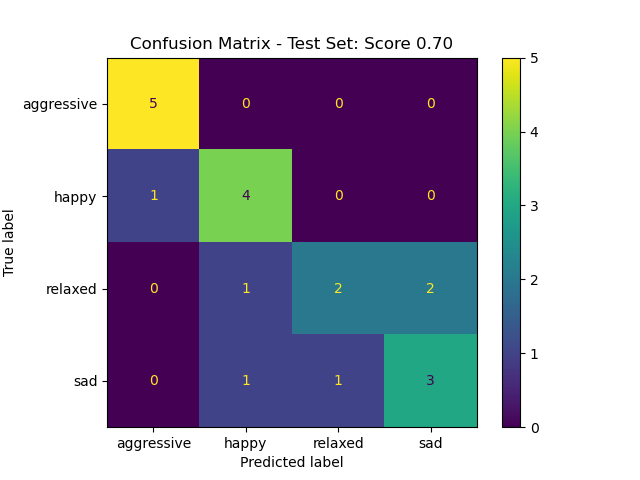
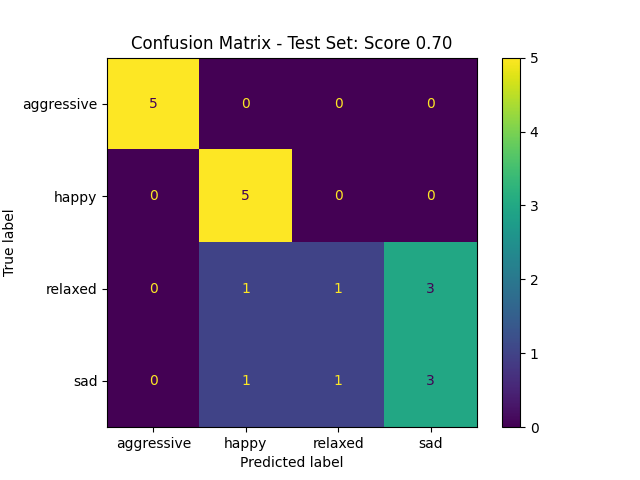
added misclassification results

diff --git a/src/models_gym.py b/src/models_gym.py
@@ -1,15 +1,14 @@
+import json
+import pandas as pd
+import matplotlib.pyplot as plt 
 from sklearn.ensemble import RandomForestClassifier
 from sklearn.neighbors import KNeighborsClassifier
-from sklearn.model_selection import RandomizedSearchCV
 from sklearn.metrics import classification_report, ConfusionMatrixDisplay
-import matplotlib.pyplot as plt
 from sklearn.model_selection import RandomizedSearchCV
-import json
 from evaluation import get_target_names
 
-EVALUATIONS_PATH = "../results"
-PLOTS_PATH = "../plots"
-
+EVALUATIONS_PATH = "results"
+PLOTS_PATH = "plots"
 
 class Classifier:
     def __init__(self):
@@ -19,28 +18,79 @@ class Classifier:
     def train_and_optimize(self, X, y, cv=15, scoring="accuracy", verbose=1, n_iter=20):
         if self.clf is None or self.param_grid is None:
             raise ValueError("Classifier or parameter grid is not set.")
-        
+
         print(f"***** {self.clf.__class__.__name__} *****")
         hyper_search_model = RandomizedSearchCV(
-            param_distributions=self.param_grid, estimator=self.clf, cv=cv, n_iter=n_iter, verbose=verbose, scoring=scoring, random_state=42
+            param_distributions=self.param_grid,
+            estimator=self.clf,
+            cv=cv,
+            n_iter=n_iter,
+            verbose=verbose,
+            scoring=scoring,
+            random_state=42,
         ).fit(X, y)
 
         print("Best hyperparameters are: " + str(hyper_search_model.best_params_))
         print("Best hyperparam score is: " + str(hyper_search_model.best_score_))
         self.clf = hyper_search_model.best_estimator_
 
-    def evaluate_best_model(self, X_test, y_test):
+    def evaluate_best_model(self, X_test, y_test, csv_file):
         score = self.clf.score(X_test, y_test)
         print("Score on test set: ", score)
-        print("Report on test set: ", classification_report(y_test, self.clf.predict(X_test), output_dict=True))
-        ConfusionMatrixDisplay.from_estimator(self.clf, X_test, y_test)
+        y_pred = self.clf.predict(X_test)
+        print("Report on test set: ", classification_report(y_test, y_pred, output_dict=True))
+
         # Add Target Names to the plot
         target_names = get_target_names()
+
+        self._check_misclassified(y_pred, y_test, csv_file, target_names)
+
+        ConfusionMatrixDisplay.from_estimator(self.clf, X_test, y_test)
         plt.title(f"Confusion Matrix - Test Set: Score {score:.2f}")
         plt.xticks(ticks=[0, 1, 2, 3], labels=target_names)
         plt.yticks(ticks=[0, 1, 2, 3], labels=target_names)
-        plt.savefig(f"{PLOTS_PATH}/confusion_matrix.png")
+        plt.savefig(f"{PLOTS_PATH}/confusion_matrix_{self.clf.__class__.__name__}.png")
         plt.show()
+
+    def _check_misclassified(self, y_pred, y_test, csv_file, target_names):
+        """
+        Checks the misclassified samples and stores them in a JSON file.
+
+        Parameters:
+            y_pred (array-like): The predicted labels.
+            y_test (array-like): The true labels.
+            csv_file (str): The path to the CSV test set file.
+            target_names (list): The names of the target classes.
+
+        """
+
+        # Compute indices of misclassified samples
+        misclassified_indices = [i for i, (true, pred) in enumerate(zip(y_test, y_pred)) if true != pred]
+
+        # Load CSV file
+        df = pd.read_csv(csv_file)
+
+        # Store misclassified samples in a list
+        misclassified_samples = []
+
+        # Collect misclassified samples
+        for idx in misclassified_indices:
+            file_name = df.iloc[idx]["File_Name"]
+            original_label = df.iloc[idx]["class"]
+            misclassified_label = y_pred[idx]
+            misclassified_samples.append(
+                {
+                    "file_name": file_name,
+                    "original_label": original_label,
+                    "misclassified_label": target_names[int(misclassified_label)],
+                }
+            )
+
+        # Write misclassified samples to JSON file
+        with open(
+            EVALUATIONS_PATH + f"/results_misclassification_{self.clf.__class__.__name__}.json", "w"
+        ) as f:
+            json.dump(misclassified_samples, f, indent=4)
 
 
 class RFClf(Classifier):
@@ -49,7 +99,7 @@ class RFClf(Classifier):
         self.clf = RandomForestClassifier()
         self.param_grid = {
             "bootstrap": [True, False],
-            "max_depth": [3, 5,None],
+            "max_depth": [3, 5, None],
             "n_estimators": [25, 50, 75],
             "max_features": ["sqrt", "log2", None],
             "criterion": ["gini", "entropy"],
@@ -64,5 +114,5 @@ class KNNClf(Classifier):
         self.param_grid = {
             "n_neighbors": [3, 5, 7],
             "leaf_size": [2, 3, 4, 5, 10],
-            "p": [1, 2]  # 1 for Manhattan distance, 2 for Euclidean distance
+            "p": [1, 2],  # 1 for Manhattan distance, 2 for Euclidean distance
         }

diff --git a/src/train_best.py b/src/train_best.py
@@ -2,8 +2,8 @@ import numpy as np
 from data_loader import DataLoader
 from model_factory import FeatureSelector
 from models_gym import RFClf, KNNClf
-TRAIN_DATA_PATH = "../archive/TrainSet.csv"
-TEST_DATA_PATH = "../archive/TestSet.csv"
+TRAIN_DATA_PATH = "archive/TrainSet.csv"
+TEST_DATA_PATH = "archive/TestSet.csv"
 
 if __name__ == "__main__":
 
@@ -14,20 +14,22 @@ if __name__ == "__main__":
     X_test, y_test = data_loader.prepare_test_data()
 
     # Select train and test features
-    X_train_reduced, selector = fs.select_statistically(X_train, y_train, percentile=30)
+
+    # TODO: include the feature selection from model factory
+    X_train_reduced, selector = fs.select_statistically(X_train, y_train, percentile=75)
     mask = selector.get_support()
     x_reduced_indices = np.where(mask)[0].astype(int)
     X_test_reduced = X_test[:, x_reduced_indices]
 
     rf_clf = RFClf()
     rf_clf.train_and_optimize(X_train_reduced, y_train, verbose=1, n_iter=10)
-    rf_clf.evaluate_best_model(X_test_reduced, y_test)
+    rf_clf.evaluate_best_model(X_test_reduced, y_test, csv_file="archive/TestSet.csv")
 
     print("-------------")
 
     knn_clf = KNNClf()
     knn_clf.train_and_optimize(X_train_reduced, y_train, verbose=1, n_iter=10)
-    knn_clf.evaluate_best_model(X_test_reduced, y_test)
+    knn_clf.evaluate_best_model(X_test_reduced, y_test, csv_file="archive/TestSet.csv")
 
     # Best hyperparameters are: {'n_estimators': 75, 'min_samples_split': 2, 'min_samples_leaf': 2, 'max_features': 3, 'max_depth': 3, 'criterion': 'gini', 'bootstrap': True}
     # Best hyperparam score is: 0.8333333333333334

diff --git a/src/data_loader.py b/src/data_loader.py
@@ -7,7 +7,7 @@ from sklearn.impute import SimpleImputer
 class DataLoader(object):
 
     def __init__(self, training_data_path: str, test_data_path: str, 
-                 categorical_encoder=LabelEncoder(), numerical_scaler=MinMaxScaler(), imputer=SimpleImputer()):
+                 categorical_encoder=LabelEncoder(), numerical_scaler=StandardScaler(), imputer=SimpleImputer()):
         self.train_data_path = Path(training_data_path)
         self.test_data_path = Path(test_data_path)
         self.categorical_encoder = categorical_encoder

diff --git a/src/evaluation.py b/src/evaluation.py
@@ -3,9 +3,9 @@ import pandas as pd
 import matplotlib.pyplot as plt
 import seaborn as sns
 
-FEATURES_FILE = "../archive/TrainSet.csv"
-EVALUATIONS_PATH = "../results"
-PLOT_PATH = "../plots"
+FEATURES_FILE = "archive/TrainSet.csv"
+EVALUATIONS_PATH = "results"
+PLOT_PATH = "plots"
 PLOT_SIZE = (16, 5.5)
 TOP_FEATURES = 5
 
